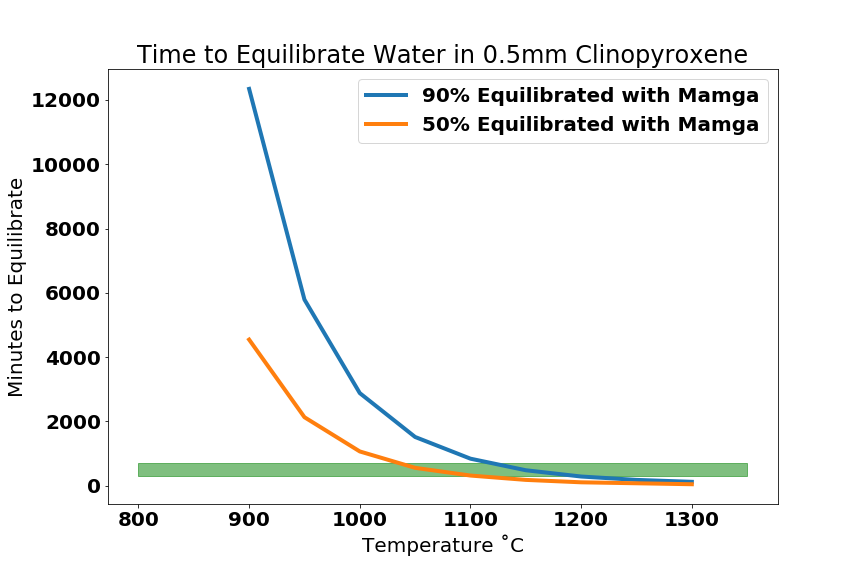
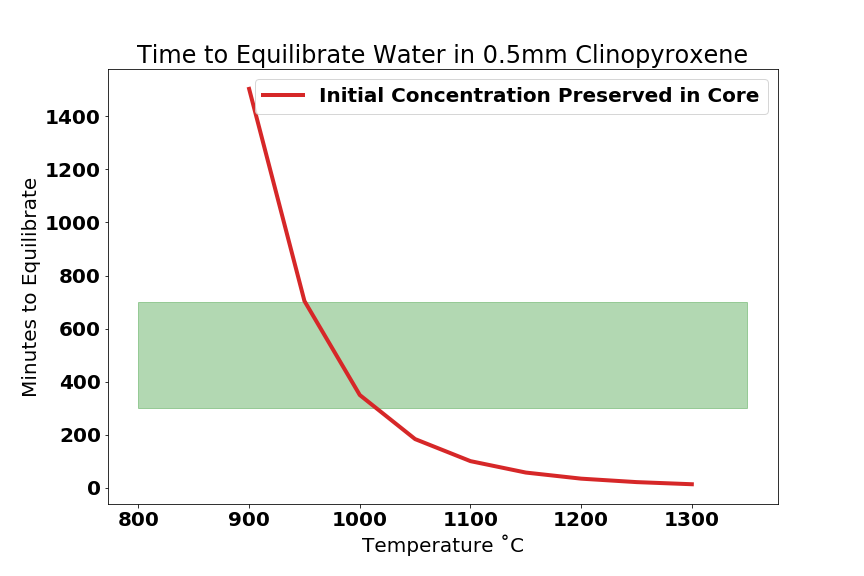
Changed the min diffusivity of cpx

diff --git a/Diffusion Modeling.py b/Diffusion Modeling.py
@@ -132,7 +132,9 @@ ax.set_ylabel('H2O ppm')
 
 # %%
 
-percent_eq = 50
+# Iterate 1% , 50% and 90%equilibration to make final plot
+
+
 N_points = 50
 profile_length = 500 # Microns
 dX = profile_length / (N_points -1) # Microns
@@ -144,30 +146,39 @@ initial_C = 100 # ppm
 v = np.mat(np.ones(N_points)* initial_C).T
 v[0], v[-1] = boundary, boundary
 v_initial = v
-df = pd.DataFrame(index = [10,100], columns=range(900, 1350,50))
+df1 = pd.DataFrame(index = [10,100,200], columns=range(900, 1350,50))
+df50 = pd.DataFrame(index = [10,100,200], columns=range(900, 1350,50))
+df90 = pd.DataFrame(index = [10,100,200], columns=range(900, 1350,50))
 
-for T_C2 in range(900, 1350,50):
-    T_K2 = T_C2+273;
-    for F_cpx2 in [10,100]:
-        D_cpx2 = (1e12*(10**(-3))*np.exp(-181000/(8.314*T_K2))/F_cpx2)
+Panels = [df1, df50, df90]
+for idx, percent_eq in enumerate([1, 50, 90]):
+    percent_remain = 100 - percent_eq
+    df = Panels[idx]
+    for T_C2 in range(900,1350,25):
+        T_K2 = T_C2+273;
+        for F_cpx2 in [10, 100, 200]:
+            D_cpx2 = (1e12*(10**(-3))*np.exp(-181000/(8.314*T_K2))/F_cpx2)
 
-        v_loop = v_initial
-        time = 15*60
-        time_tot= 0
-        while np.max(v_loop) > percent_eq:
-                time = 15*60
-                time_tot= 15*60 + time_tot
-                dt = 1
-                B = diffusion_matrix(D_cpx2,dt,dX)
-                v_loop = time_steper(v_loop, B, time)
-                if np.max(v_loop) < percent_eq:
-                    df.loc[F_cpx2][T_C2] = time_tot/60
+            v_loop = v_initial
+            time = 11*60
+            time_tot= 0
+            while np.max(v_loop) > percent_remain:
+                    time = 1*60
+                    time_tot= 1*60 + time_tot
+                    dt = 1
+                    B = diffusion_matrix(D_cpx2,dt,dX)
+                    v_loop = time_steper(v_loop, B, time)
+                    if np.max(v_loop) < percent_remain:
+                        df.loc[F_cpx2][T_C2] = time_tot/60
 
 
-df
+df1
+df50
+df90
 # %%
+
 T_K2 = 1200+273;
-time = 50*60
+time = 15*60
 time_tot= 15*60 + time_tot
 D_cpx2 = (1e12*(10**(-3))*np.exp(-181000/(8.314*T_K2))/100)
 dt = 1
@@ -176,28 +187,34 @@ v_loop1 = time_steper(v_initial, B, 0)
 v_loop2 = time_steper(v_initial, B, time)
 plt.plot(Distances,v_loop1)
 plt.plot(Distances,v_loop2)
+
 # %%
+# df1 = df
 #df90 = df
+# df50 = df
+
 font = {'family' : 'normal',
         'weight' : 'bold',
         'size'   : 20}
 
 plt.rc('font', **font)
 fix, ax = plt.subplots(figsize =(12,8))
-#df.iloc[0].plot(label = '10X slower than Olivine',lw =4)
-df90.iloc[1].plot(label = '90% Equilibrated with Mamga', lw = 4)
-df.iloc[1].plot(label = '50% Equilibrated with Mamga', lw = 4)
+
+#df90.iloc[2].plot(label = '90% Equilibrated with Mamga', lw = 4, c = '#1f77b4')
+#df50.iloc[2].plot(label = '50% Equilibrated with Mamga', lw = 4, c = '#ff7f0e')
+df1.iloc[2].plot(label = 'Initial Concentration Preserved in Core', lw = 4, c = '#d62728')
 plt.plot(x= [800, 1400], y = [300, 300], color='k', linestyle='-', linewidth=2,)
 ax.set_xlabel('Temperature ˚C')
 ax.set_ylabel('Minutes to Equilibrate')
 ax.set_title('Time to Equilibrate Water in 0.5mm Clinopyroxene')
 
-ax.fill_between([800,1350], [300,300], [700,700], color = 'green', alpha=0.5)
+ax.fill_between([800,1350], [300,300], [700,700], color = 'green', alpha=0.3)
 ax.legend()
 plt.savefig('Time to eq cpx')
-ax.annotate('0.05 MPa/s ',xy= (910,300))
+ax.annotate('0.05 MPa/s ',xy= (1200,710), color = 'green')
 ax.set_xlim(900,1300)
-plt.savefig('Time to eq cpx_1')
+ax.set_ylim(0,15000)
+plt.savefig('Time to eq cpx_200slow_3')
 
 
 # %%
